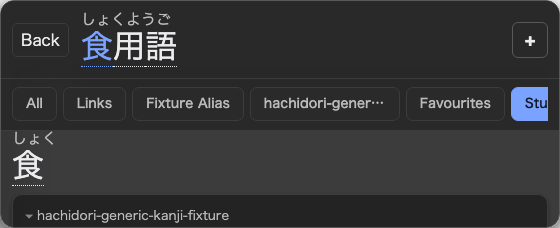
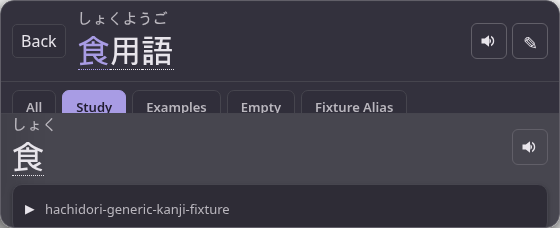
feat: render dictionary cards collapsed behind an obvious marker (#112)
Dictionary cards were created with `details.open = true` and their disclosure
marker was a 12px `▸` at 0.65 opacity in the muted title colour, so nothing in
the card read as a control: the definitions were simply always there and the
marker was effectively invisible.

Every outer card now renders closed, and the marker is a solid `▶` (`▼` open),
16px in a 20px slot, at full opacity in the theme foreground. Native
`details`/`summary` still does all the work: no custom keyboard handling,
animation or extra header decoration, and `display: list-item` with the native
marker suppressed is unchanged.

Back deliberately resets the outer cards to closed instead of reopening what was
expanded, so returning to a view is the same collapsed starting point as a fresh
lookup. Everything else it restores is untouched -- tab, Show more, scroll,
highlight, toolbar, lazy IPA, and the disclosures a dictionary authored inside a
card body.

Because a collapsed card has no laid-out body, `popupReader` opens the cards it
finds before every read, which is what a reader does to see a definition at all.
The collapsed render is observed through `autoExpandCards: false` readers in the
new marker assertion and in the Back assertion, and in the jsdom renderer checks.

node test/extension-smoke.mjs -- 477 passed, 0 failed
node test/chrome-e2e.mjs -- 192/193, the sole failure being the pre-existing
deinflection Note-button assertion that also fails on untouched origin/main here

diff --git a/extension/render/popup.js b/extension/render/popup.js
@@ -2891,7 +2891,14 @@
           const details = [...popup.querySelectorAll("details")];
           if (details.length === restoreDisclosures.length
               && details.every((node, index) => node.className === restoreDisclosures[index].className)) {
-            details.forEach((node, index) => { node.open = restoreDisclosures[index].open; });
+            // Outer dictionary cards are deliberately not restored: Back returns
+            // to the collapsed view every fresh lookup starts from. Everything
+            // the dictionary authored inside a card keeps its saved state.
+            details.forEach((node, index) => {
+              node.open = node.classList.contains("gsm-hoshidicts-glossary-card")
+                ? false
+                : restoreDisclosures[index].open;
+            });
             // Native toggle delivery is deferred. Populate restored lazy IPA
             // now so the first restored layout includes all its text.
             for (const { metadata } of entryMetadata) metadata.fillOpenIpa();
@@ -3008,7 +3015,8 @@
         for (const [dictionary, glossaries] of groupedGlossaries) {
           const details = documentRef.createElement("details");
           details.className = "gsm-hoshidicts-glossary-card";
-          details.open = true;
+          // Collapsed on purpose. A dictionary card only reads as expandable
+          // when it starts closed behind its own visible disclosure marker.
           details.addEventListener("toggle", scheduleMasonry);
           const summary = documentRef.createElement("summary");
           summary.textContent = dictionaryDisplayNames?.get(dictionary) || dictionary;

diff --git a/extension/render/reader.css b/extension/render/reader.css
@@ -2337,14 +2337,15 @@ html[data-hoshidicts-theme="girlypop"],
 }
 
 .gsm-hoshidicts-glossary-card > summary::before {
-  content: "▸";
+  content: "▶";
   display: inline-block;
-  width: 12px;
-  opacity: 0.65;
+  width: 20px;
+  color: var(--text-color);
+  font-size: 16px;
 }
 
 .gsm-hoshidicts-glossary-card[open] > summary::before {
-  content: "▾";
+  content: "▼";
 }
 
 .gsm-hoshidicts-definitions {

diff --git a/test/README.md b/test/README.md
@@ -322,7 +322,7 @@ by `extension-smoke.mjs` and `chrome-fallback.mjs`.
 
 The layer above the ABI. Loads the real `background.js`, `offscreen.js` and
 `render/*.js` against the real `extension/vendor/hoshidicts.wasm` and drives one
-full request→reply round trip per contract-C message type. 470 checks, all of
+full request→reply round trip per contract-C message type. 477 checks, all of
 which have to run: the renderer stage needs jsdom and **failing to load jsdom is
 a failure, not a skip** (see below). Exits 0 on success, 1 on assertion failure,
 2 when the wasm module or the fixtures are missing.
@@ -724,7 +724,7 @@ conflicts rather than duplicating their storage machinery.
 node test/chrome-e2e.mjs
 ```
 
-The primary-path test runs 191 predeclared checks in a browser. Chrome and `puppeteer-core`
+The primary-path test runs 193 predeclared checks in a browser. Chrome and `puppeteer-core`
 live outside the repo so a checkout does not carry a browser. The setup command
 above installs Chrome for Testing in the default cache; the harness also checks
 `CHROME_BIN` and common system locations. Override with `HACHIDORI_CHROME`,
@@ -954,6 +954,21 @@ covering them; opening Note keeps its focused input visible. The viewport and
 focus are restored before the remaining hover tests.
 `HACHIDORI_DEINFLECTION_SCREENSHOT` captures the expanded desktop popup.
 
+One assertion covers the outer dictionary cards on a popup no other check has
+touched. It reads the computed `::before` marker inside the closed shadow root:
+a solid `▶` closed and `▼` open, `inline-block` at 20px wide, 16px, opacity 1,
+in the popup's own foreground colour rather than the muted summary colour. Every
+card of that render must start closed with no laid-out body, keep
+`display: list-item` and no native marker, and open and close again through a
+real mouse click on the marker and through Enter and Space on the focused
+summary. Because a collapsed card is the default, every `popupReader` read opens
+the cards it finds — a reader reaching a definition has to — so the geometry,
+focus, hover and selection assertions elsewhere measure them expanded. This check
+and the Back check read through `popupReader(..., { autoExpandCards: false })`
+instead, which is the only way the collapsed render can be observed at all.
+`HACHIDORI_COLLAPSED_CARD_SCREENSHOT` captures that untouched popup and
+`HACHIDORI_KANJI_BACK_SCREENSHOT` the recollapsed view Back restores.
+
 The exported `nestedLinksFixture()` supplies three linked term rows and one
 shared deterministic PNG without changing the ordinary fixture counts. The
 real-WASM Chrome chain assertion exercises mouse return versus keyboard focus,
@@ -970,9 +985,9 @@ cover All, ordered nonempty groups and an ungrouped favourite from the complete
 native result; ordinary contributors and grouped favourites receive no duplicate
 dictionary tabs. Warmed tab changes must issue no lookup, media or style
 requests. Linked-child, clicked-kanji and Back retain their semantic selection.
-Back also restores an expanded, scrolled child with a collapsed dictionary card,
-its prior tab, highlight and toolbar, without another native lookup; its next
-Back still closes the child. Extension checks cover native-source fallback and
+Back recollapses an expanded dictionary card while restoring the expanded,
+scrolled child's prior tab, highlight and toolbar, without another native lookup;
+its next Back still closes the child. Extension checks cover native-source fallback and
 terminal misses, cached versus changed-generation restoration, lazy IPA and
 structured disclosures, and cancellation by newer projections or deliberate
 scroll. A focused scroll-read assertion prevents forcing layout while a retained
@@ -1099,7 +1114,7 @@ directory rather than an `rmSync` of whatever the reader pointed the variable at
 
 ### the denominator is fixed
 
-`PLANNED` at the top of the file names all 183 assertions, and the summary line
+`PLANNED` at the top of the file names all 193 assertions, and the summary line
 divides by `PLANNED.length`, not by the number of checks that happened to run.
 Anything in `PLANNED` that no `check()` reached is reported as
 `FAIL … check never ran`, and `check()` refuses a name that is not in the list or

diff --git a/docs/architecture.md b/docs/architecture.md
@@ -962,6 +962,25 @@ once against the new state. Startup uses the same ordering.
 
 ![Compact summary with its complete source definitions](assets/compact-definition-summary.png)
 
+### Dictionary card disclosure
+
+Every outer dictionary card is a native `details` that renders closed. Its
+`summary` carries the dictionary's display name and a `::before` marker: a solid
+`▶` closed and `▼` open, 16px in a 20px slot, at full opacity in the theme
+foreground rather than the muted title colour, so a collapsed card reads as
+expandable instead of as a heading. The native marker stays suppressed and the
+element keeps `display: list-item`, so mouse, Enter and Space activation, focus
+and accessibility come from `details`/`summary` itself; the renderer adds no
+keyboard handling, animation or extra header decoration.
+
+Every fresh lookup and every dictionary-tab projection starts collapsed. This is
+not a stored preference: there is no state to write, and Back deliberately
+returns to the same collapsed view rather than reopening what was expanded.
+Disclosures a dictionary authored inside a card body are untouched by all of
+this and keep their own state.
+
+![A collapsed dictionary card behind its solid disclosure marker](assets/collapsed-dictionary-card.png)
+
 ### Deinflection explanation
 
 Each eligible term header has a native, initially closed `details` disclosure.
@@ -1154,7 +1173,9 @@ Back stores the exact term request and its current tab, expanded-results flag,
 scroll position and disclosure states as data, not detached DOM or renderer
 closures. The renderer-owned capture accessor follows local tab changes and is
 cleared when the view is retired. Matching content and tab membership restore
-collapsed glossary cards and open deinflection, structured and IPA disclosures.
+open deinflection, structured and IPA disclosures, while the outer glossary cards
+are deliberately reset to closed: Back returns to the collapsed view a fresh
+lookup starts from.
 Lazy IPA is populated before the restored layout. Changed content cannot inherit
 unrelated disclosure states; a changed generation replays the exact request.
 
@@ -1172,7 +1193,7 @@ This intentionally extends the pinned GSM PR #549 restoration: its saved term
 view does not retain expansion/scroll, and uses the current kanji tab. Issue #9
 requires the prior term view's exact state instead.
 
-![Back restores an expanded Study view with its first dictionary card collapsed](assets/kanji-back.png)
+![Back restores an expanded Study view with its dictionary cards collapsed](assets/kanji-back.png)
 
 ## Dictionary presentation boundary
 
